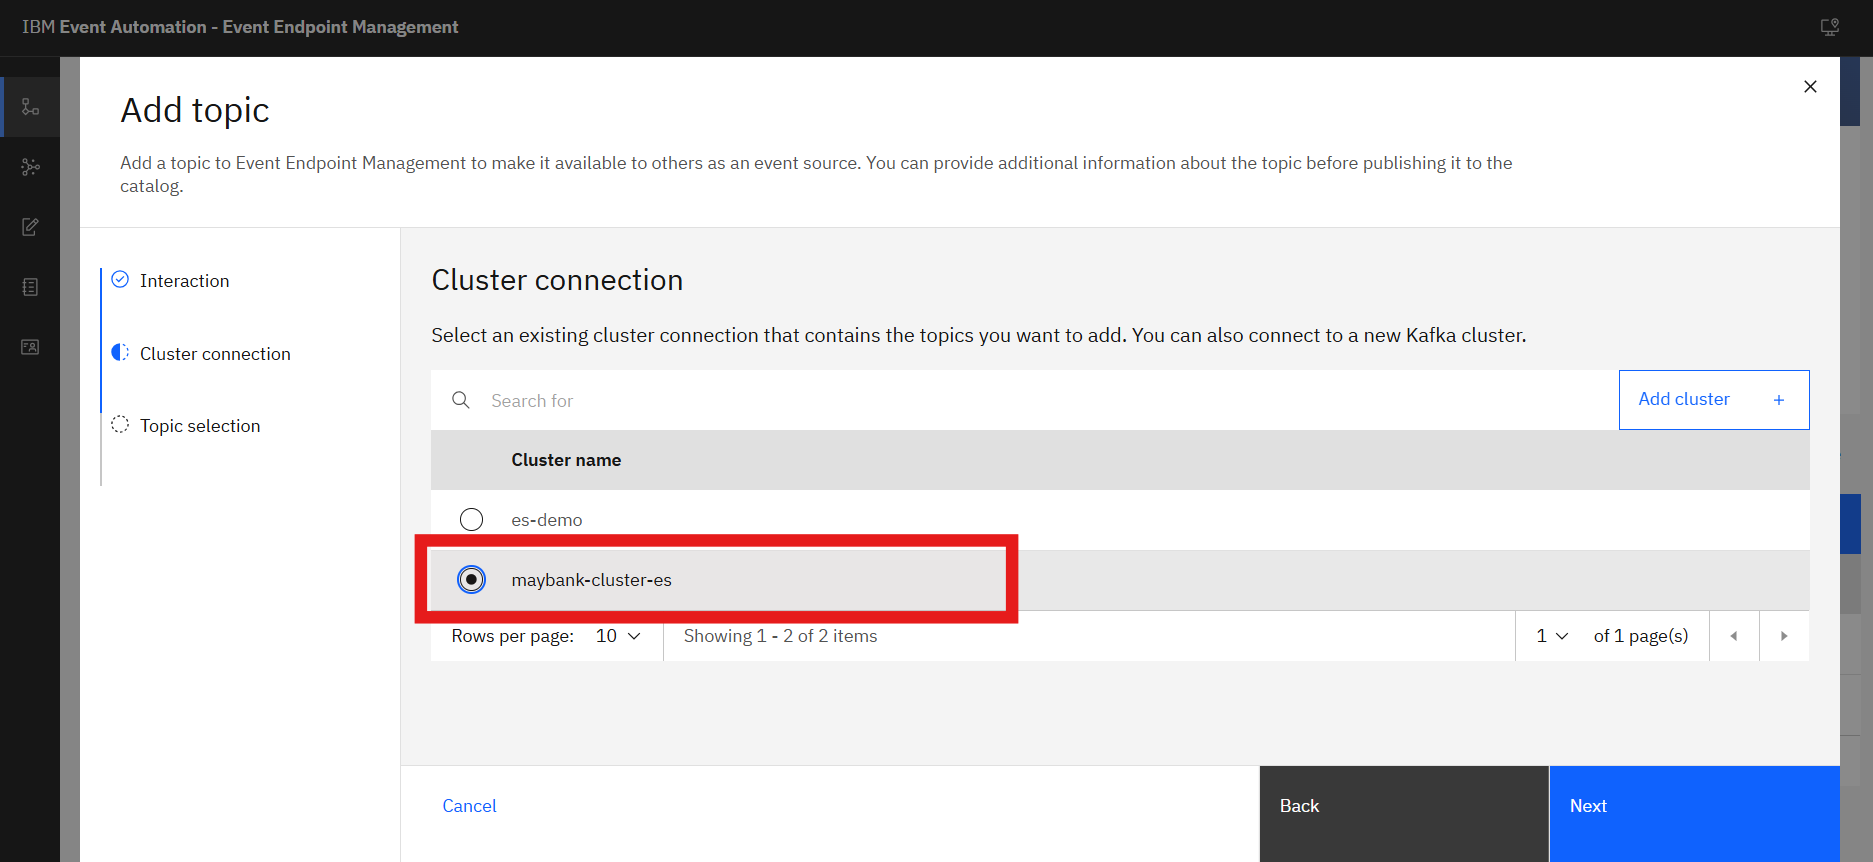
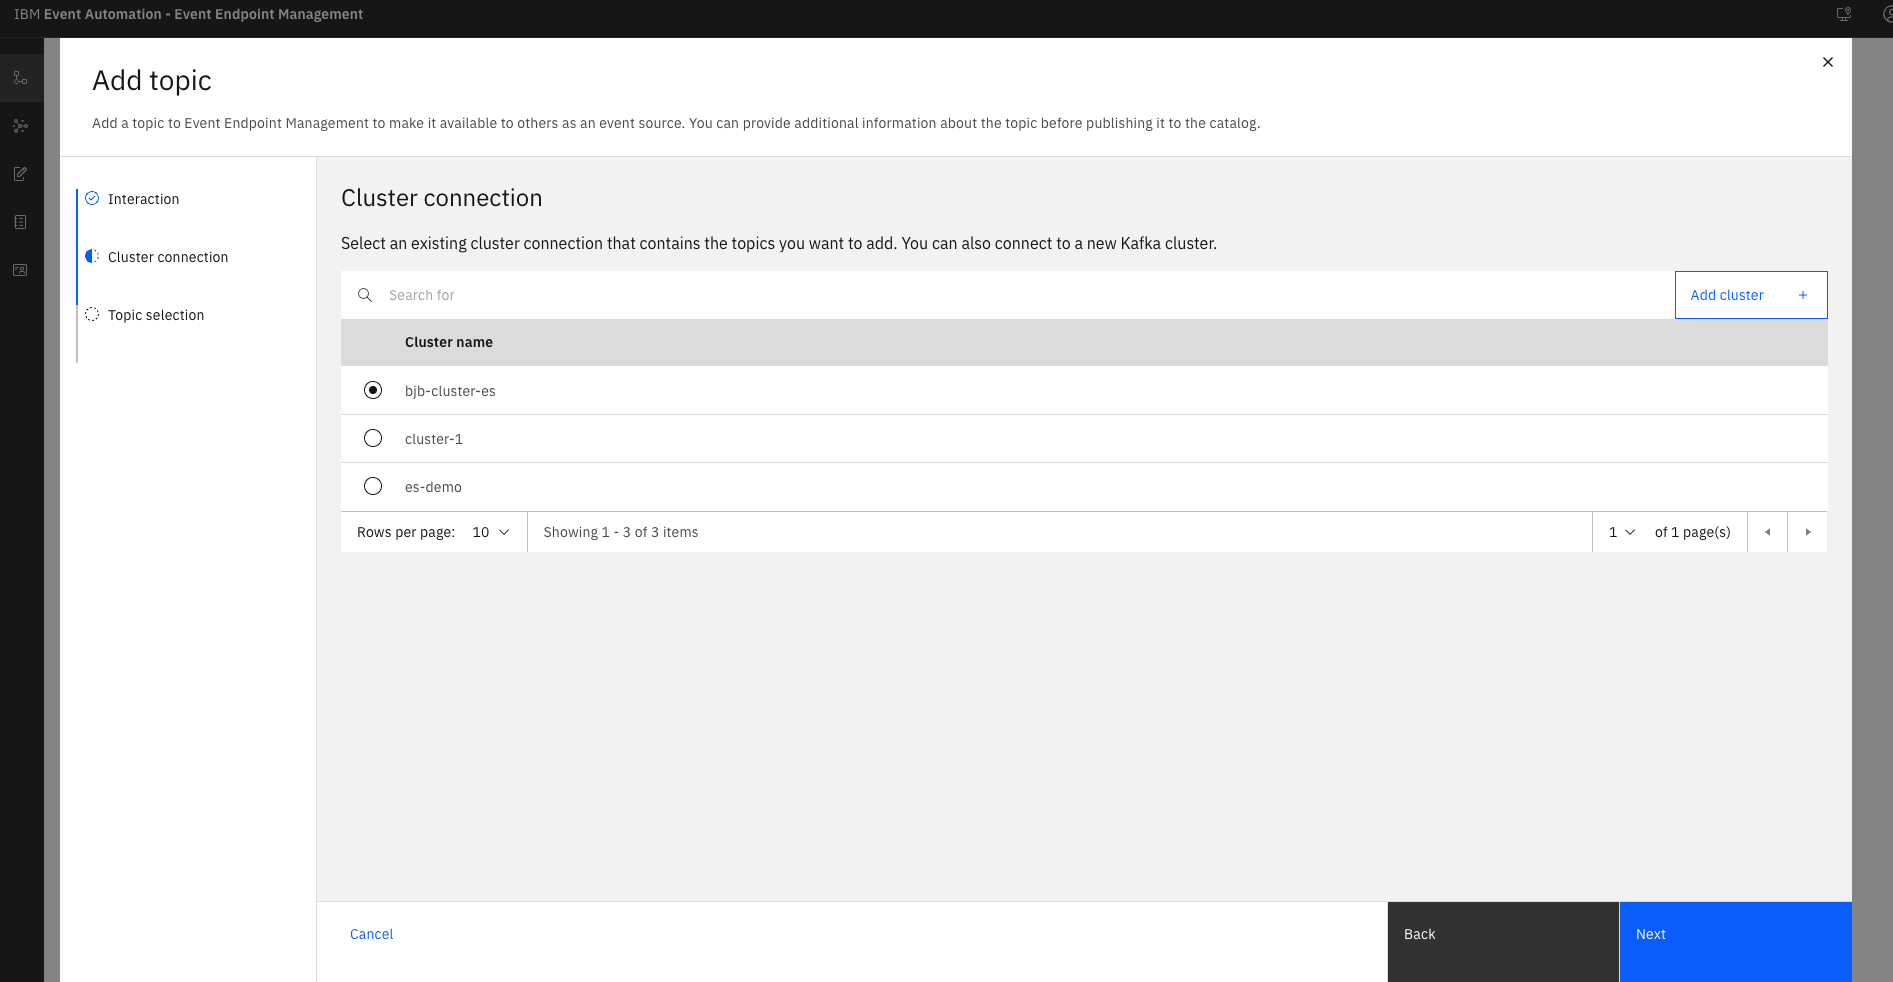
update for workshop

diff --git a/README.md b/README.md
@@ -16,7 +16,7 @@ An Event Stream is a continuous, real-time flow of data made up of a series of "
    ![alt text](images/lab-1/choose-event-stream-on-cp4i.png)
    - You will see dashboard event stream like this picture.
    ![alt text](images/lab-1/dashboard-event-stream.png)
-   - Now, you can go to [Lab 1](https://github.com/Client-Engineering-Indonesia/workshop-maybank-2025/blob/main/Lab%201%20-%20Event%20Automation/lab-1.md)
+   - Now, you can go to [Lab 1](https://github.com/Client-Engineering-Indonesia/workshop-event-automation/blob/main/lab-1.md)
 ---
 
 ### 2. **Access Event Endpoint Management/EEM Portal (Lab 2)**
@@ -24,7 +24,7 @@ An Event Stream is a continuous, real-time flow of data made up of a series of "
 Event Endpoint Management (EEM) is a capability that allows organizations to discover, govern, and secure access to their event streams.
    - Click event endpoint management(EEM) with name `eem-demo-mgr` or just click [here](https://eem-demo-mgr-ibm-eem-manager-tools.apps.itz-tx7iu2.infra01-lb.tok04.techzone.ibm.com/topics)
    ![alt text](images/lab-1/choose-eem-on-cp4i.png)
-   - Now, you can go to [Lab 2](https://github.com/Client-Engineering-Indonesia/workshop-maybank-2025/blob/main/Lab%201%20-%20Event%20Automation/lab-2.md)
+   - Now, you can go to [Lab 2](https://github.com/Client-Engineering-Indonesia/workshop-event-automation/blob/main/lab-2.md)
    ![alt text](images/lab-2/dashboard-eem.png)
 
 ### 2. **Access Event Processing/EP Portal (Lab 3)**
@@ -32,7 +32,7 @@ Event Endpoint Management (EEM) is a capability that allows organizations to dis
 Event Processing is a scalable, low-code event stream processing platform that helps you transform and act on data in real time.
    - Click event processing(EP) with name `ep-demo` or just click [here](https://ep-demo-ibm-ep-rt-tools.apps.itz-tx7iu2.infra01-lb.tok04.techzone.ibm.com)
    ![alt text](images/lab-1/choose-ep-on-cp4i.png)
-   - Now, you can go to [Lab 3](https://github.com/Client-Engineering-Indonesia/workshop-maybank-2025/blob/main/Lab%201%20-%20Event%20Automation/lab-3.md)
+   - Now, you can go to [Lab 3](https://github.com/Client-Engineering-Indonesia/workshop-event-automation/blob/main/lab-3.md)
    ![alt text](images/lab-3/dashboard-ep.png)
 
 

diff --git a/lab-2.md b/lab-2.md
@@ -11,7 +11,7 @@ Add a topic to Event Endpoint Management to make it available to others as an ev
 3. In the Interaction pane, select how your application will interact with the event source. Click Consume events and click Next.
 ![alt text](images/lab-2/2.png)
 
-5. Select your cluster which you create topic previously (**maybank-cluster-es**).
+5. Select your cluster which you create topic previously (**bjb-cluster-es**).
 ![alt text](images/lab-2/choose-cluster-lab-2.png)
 
 4. Select your topic from the list of topics available on this cluster.
